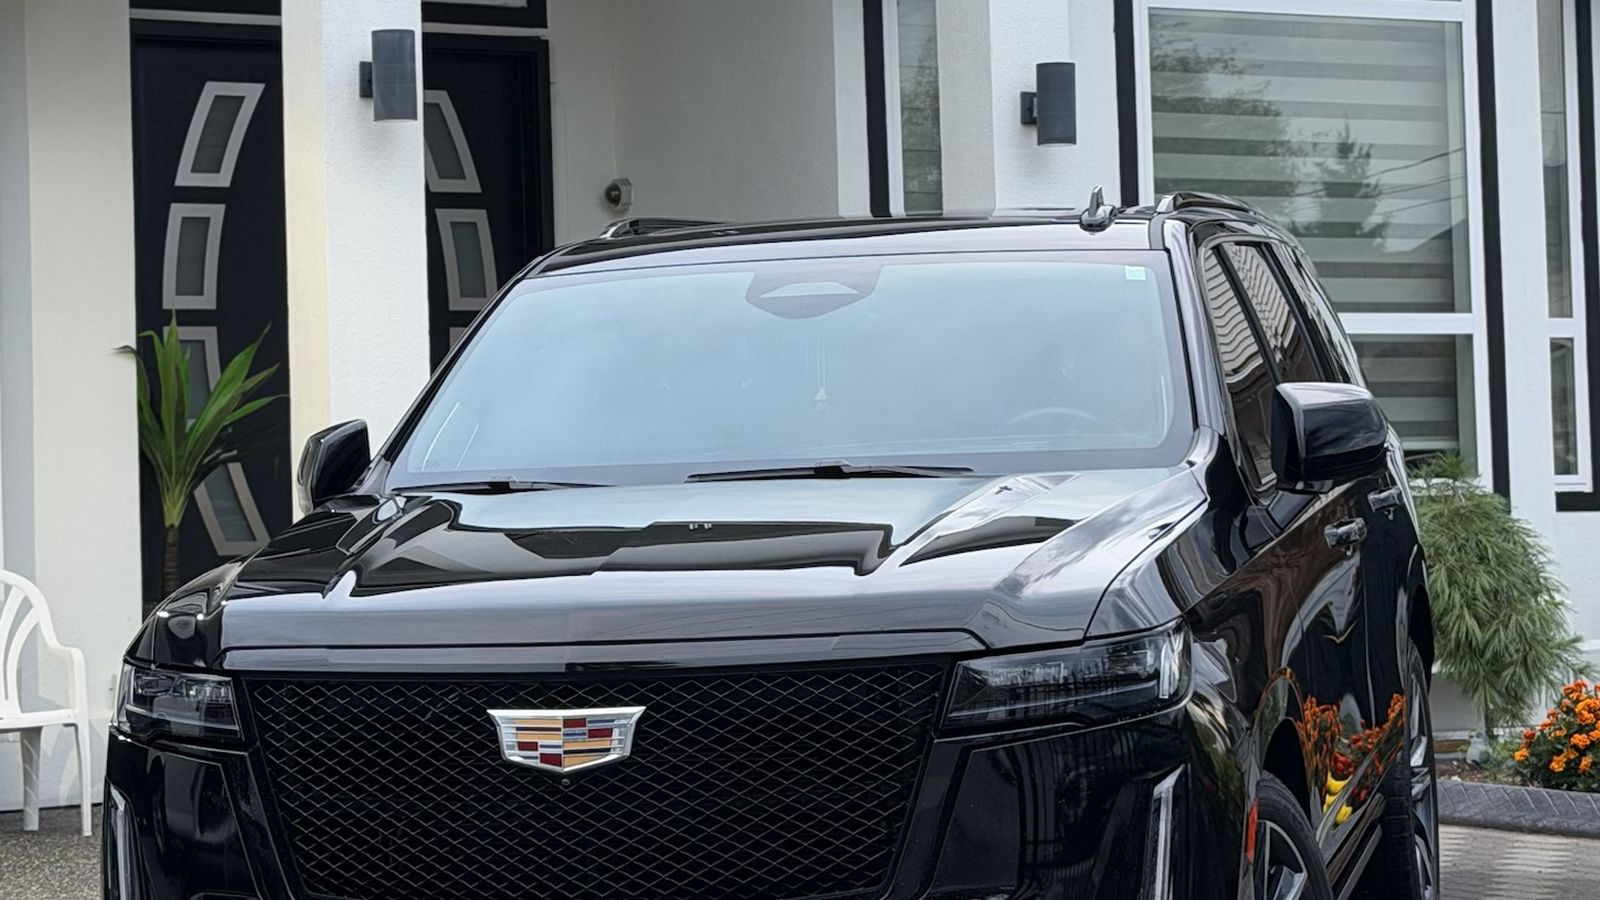
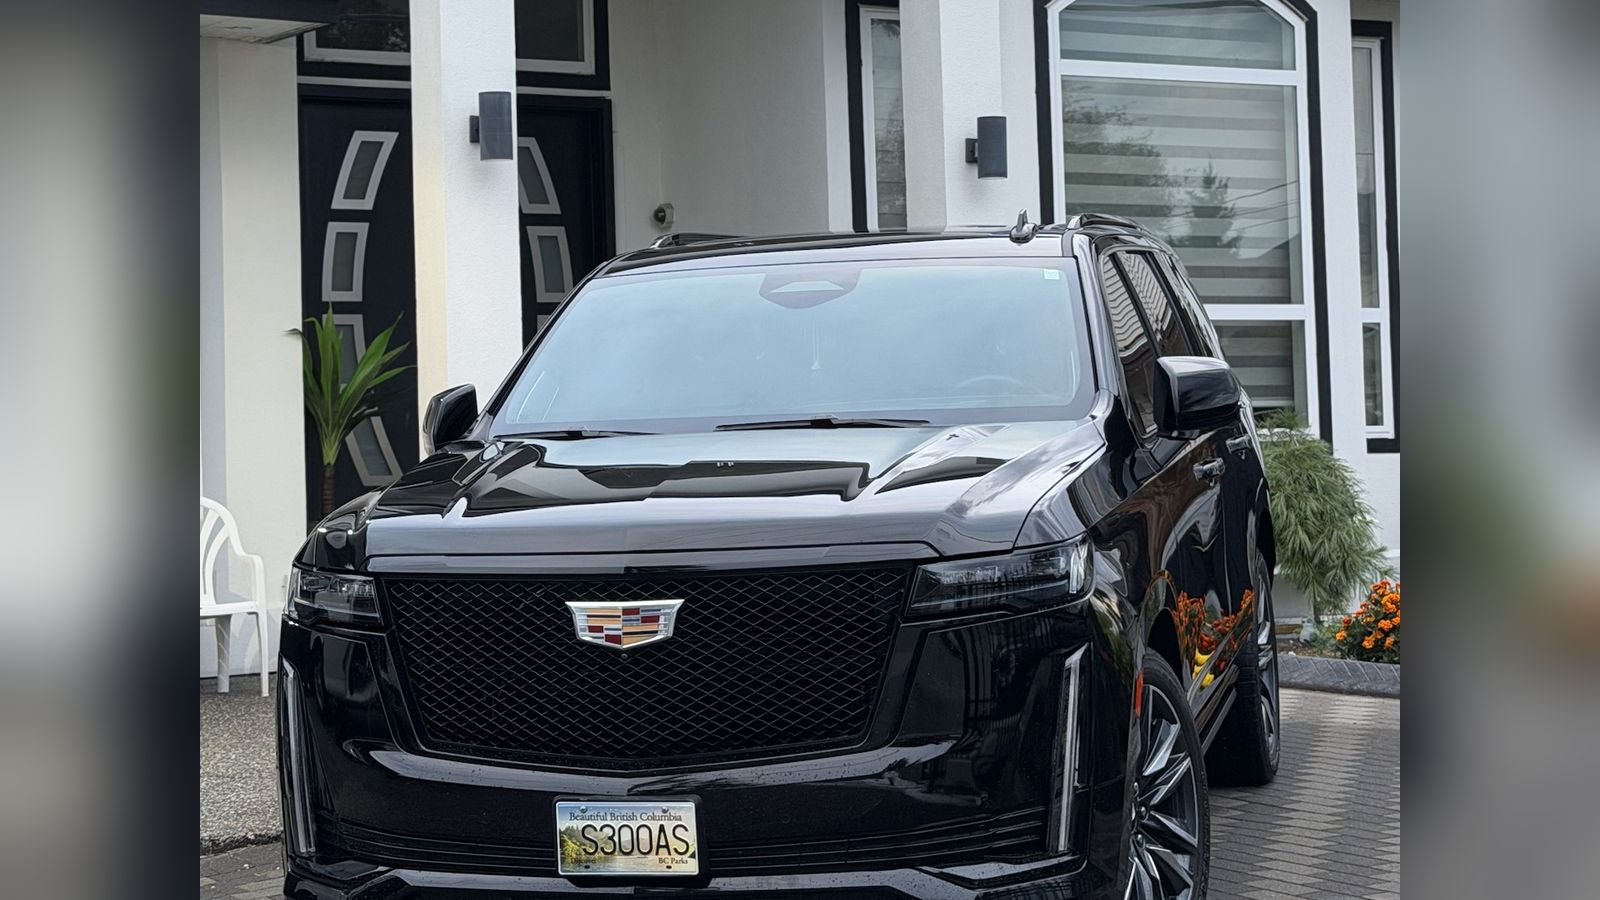
Fix over-zoomed hero images on mobile and laptop
The hero used one 16:9 crop at every screen size. On a phone that
meant only ~26% of the image width was visible, and the crops were
too tight to fit a whole vehicle even on desktop.

- Add dedicated 2:3 portrait hero images for phones, swapped via
  media query (slides now use data-slide + CSS, not inline styles)
- Rebuild desktop heroes so the full vehicle fits, with a soft
  blurred extension at the edges instead of clipping the roof
- Reduce the slow zoom from 1.07 to 1.035; disable it on phones
  and for prefers-reduced-motion
- Shorter hero on phones (74vh) so less of the photo is cropped
- Stronger overlay + text shadow so the headline stays readable
  over bright backgrounds

Claude-Session: https://claude.ai/code/session_01EdSWCgKALwjvWygQxshQLw

diff --git a/index.html b/index.html
@@ -468,6 +468,37 @@ footer{background:#fafafa;padding:56px 5% 26px;border-top:1px solid #eee}
   .footer-bottom p{font-size:10px}
 }
 </style>
+<style>/*__hero_art*/
+.hero-slide[data-slide="escalade"]{background-image:url('/gallery/hero-escalade.jpg')}
+.hero-slide[data-slide="bronco"]{background-image:url('/gallery/hero-bronco.jpg')}
+.hero-slide[data-slide="jeep"]{background-image:url('/gallery/hero-jeep.jpg')}
+.hero-slide[data-slide="freightliner"]{background-image:url('/gallery/hero-freightliner.jpg')}
+/* gentler zoom so the frame doesn't creep in */
+@keyframes heroZoom{0%{transform:scale(1)}100%{transform:scale(1.035)}}
+@media(max-width:820px){
+  .hero{height:74vh;min-height:520px}
+  .hero-slide[data-slide="escalade"]{background-image:url('/gallery/hero-escalade-m.jpg')}
+  .hero-slide[data-slide="bronco"]{background-image:url('/gallery/hero-bronco-m.jpg')}
+  .hero-slide[data-slide="jeep"]{background-image:url('/gallery/hero-jeep-m.jpg')}
+  .hero-slide[data-slide="freightliner"]{background-image:url('/gallery/hero-freightliner-m.jpg')}
+  .hero-slide.on{animation:none}           /* no zoom on phones - it only crops more */
+  .hero h1{font-size:clamp(34px,10vw,52px)}
+  .hero-sub{font-size:16px;margin-bottom:28px}
+  .hero-scroll{display:none}
+}
+@media(prefers-reduced-motion:reduce){.hero-slide.on{animation:none}}
+/* keep hero text readable over any photo */
+.hero-overlay{background:
+  radial-gradient(ellipse 75% 60% at 50% 50%, rgba(0,0,0,.60) 0%, rgba(0,0,0,.28) 65%, rgba(0,0,0,.18) 100%),
+  linear-gradient(180deg, rgba(0,0,0,.52) 0%, rgba(0,0,0,.26) 45%, rgba(0,0,0,.58) 100%)}
+.hero h1{text-shadow:0 2px 24px rgba(0,0,0,.45)}
+.hero-sub{text-shadow:0 1px 12px rgba(0,0,0,.55)}
+@media(max-width:820px){
+  .hero-overlay{background:
+    radial-gradient(ellipse 95% 55% at 50% 48%, rgba(0,0,0,.62) 0%, rgba(0,0,0,.34) 70%, rgba(0,0,0,.24) 100%),
+    linear-gradient(180deg, rgba(0,0,0,.55) 0%, rgba(0,0,0,.32) 45%, rgba(0,0,0,.6) 100%)}
+}
+</style>
 </head>
 <body>
 </div>
@@ -500,10 +531,10 @@ footer{background:#fafafa;padding:56px 5% 26px;border-top:1px solid #eee}
 <!-- HERO -->
 <section class="hero">
   <div class="hero-bg">
-    <div class="hero-slide on" style="background-image:url('/gallery/hero-escalade.jpg')"></div>
-    <div class="hero-slide" style="background-image:url('/gallery/hero-bronco.jpg')"></div>
-    <div class="hero-slide" style="background-image:url('/gallery/hero-jeep.jpg')"></div>
-    <div class="hero-slide" style="background-image:url('/gallery/hero-freightliner.jpg')"></div>
+    <div class="hero-slide on" data-slide="escalade"></div>
+    <div class="hero-slide" data-slide="bronco"></div>
+    <div class="hero-slide" data-slide="jeep"></div>
+    <div class="hero-slide" data-slide="freightliner"></div>
   </div>
   <div class="hero-overlay"></div><div class="hero-bottom-fade"></div>
   <div class="hero-content">
